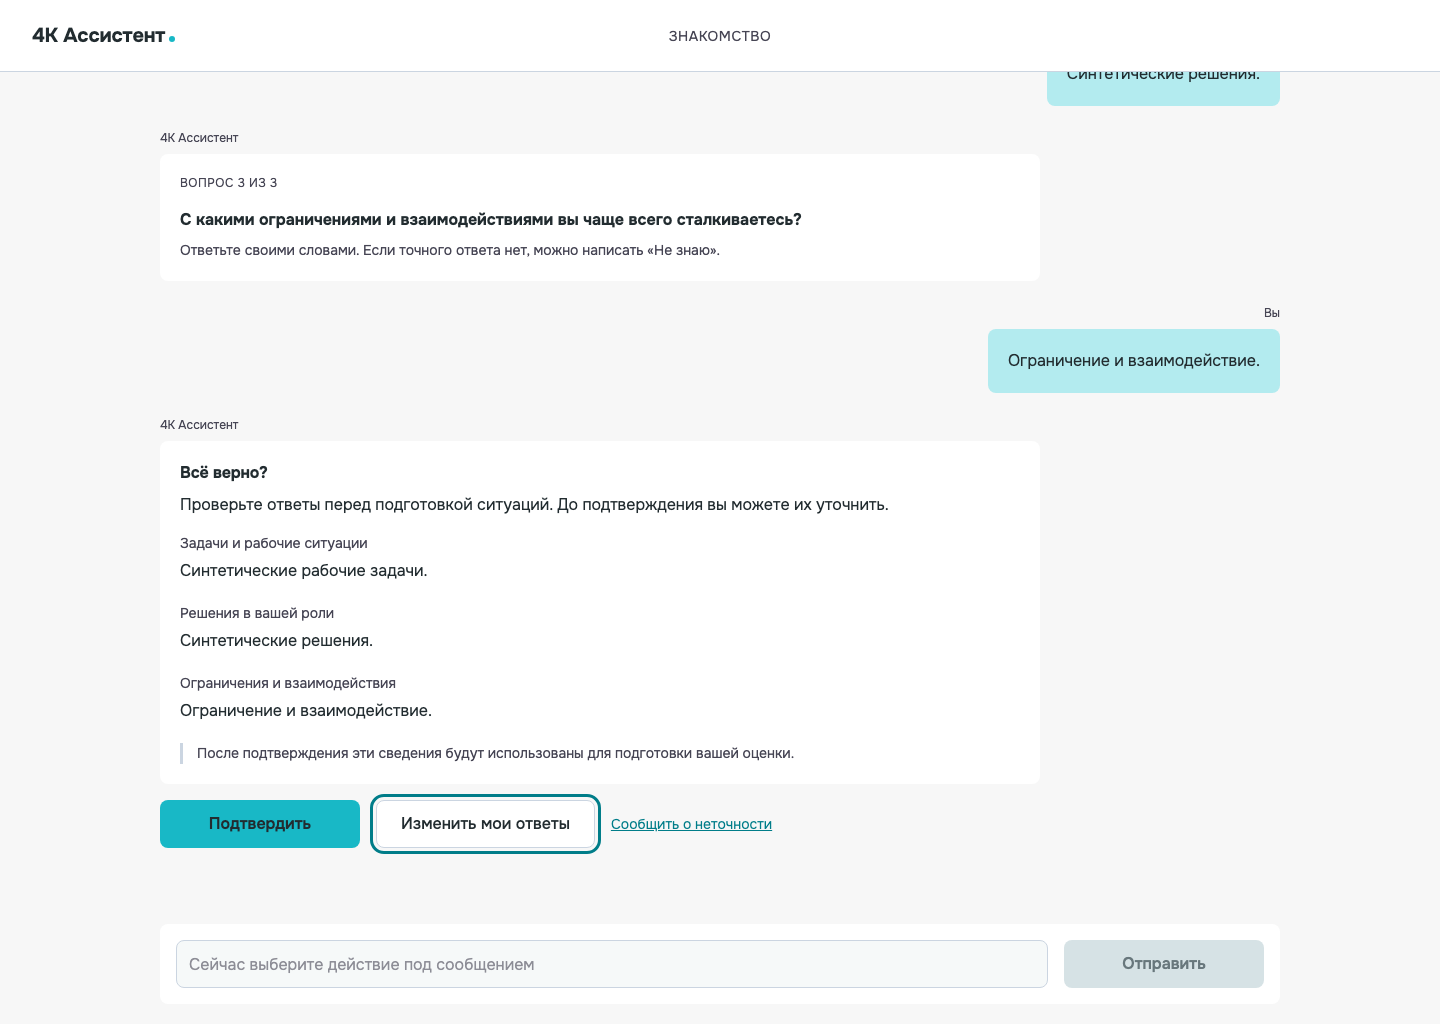
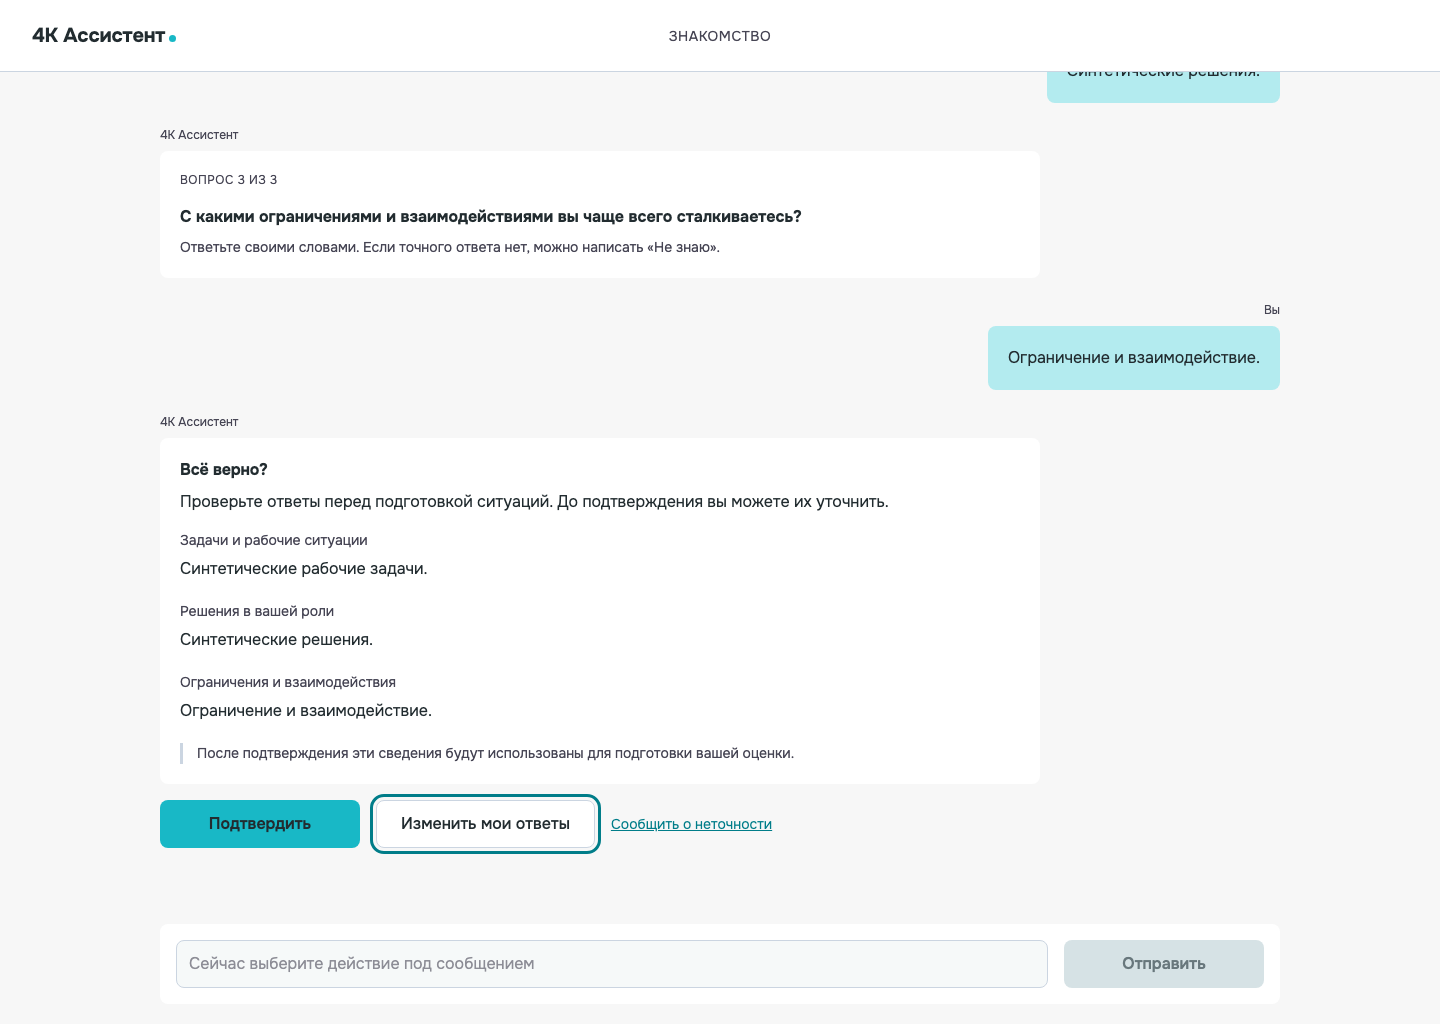
P4K-W02-01 ADD01: сверить мобильный ввод и подписи с HTML W02 v5

diff --git a/web/styles/screens/onboarding.css b/web/styles/screens/onboarding.css
@@ -27,7 +27,7 @@
     background: var(--w02-white); border-bottom: 1px solid var(--w02-border);
 }
 #onboarding-panel #onboarding-home { border: 0; background: transparent; color: inherit; padding: 8px 0; font: 700 20px/28px var(--font-body); min-height: 44px; text-align: left; }
-#onboarding-panel #onboarding-home::after { content: ''; display: inline-block; width: 6px; height: 6px; margin-left: 4px; border-radius: 50%; background: var(--w02-primary); }
+#onboarding-panel #onboarding-home::after { content: ''; display: inline-block; width: 7px; height: 7px; margin-left: 4px; border-radius: 50%; background: var(--w02-primary); }
 #onboarding-panel .onboarding-section-label { position: absolute; left: 50%; transform: translateX(-50%); font-size: 14px; line-height: 20px; color: var(--w02-muted); text-transform: uppercase; letter-spacing: .04em; }
 #onboarding-panel .step-badge-back { display: none; }
 #onboarding-panel .onboarding-history { flex: 1; min-height: 0; overflow-y: auto; overscroll-behavior: contain; padding: 32px 0; }
@@ -53,7 +53,7 @@
 #onboarding-panel .onboarding-data dt { font-size: 14px; color: var(--w02-muted); margin-bottom: 5px; }
 #onboarding-panel .onboarding-data dd { margin: 0; }
 #onboarding-panel .onboarding-consent { margin-top: 16px; padding-top: 16px; border-top: 1px solid var(--w02-border); font-size: 14px; line-height: 21px; }
-#onboarding-panel textarea { display: block; box-sizing: border-box; width: 100%; min-height: 48px; margin: 0; border: 1px solid var(--w02-border); border-radius: 8px; background: var(--w02-white); padding: 12px; font: 400 16px/24px var(--font-body); color: inherit; }
+#onboarding-panel textarea { display: block; box-sizing: border-box; width: 100%; min-height: 48px; margin: 0; border: 1px solid var(--w02-border); border-radius: 8px; background: var(--w02-white); padding: 11px 12px; font: 400 16px/24px var(--font-body); color: inherit; }
 #onboarding-panel textarea::placeholder { color: rgb(70 69 84 / 60%); opacity: 1; }
 #onboarding-panel textarea:disabled { background: var(--w02-secondary); color: var(--w02-disabled-text); }
 #onboarding-panel .onboarding-answer { max-height: 120px; resize: none; }
@@ -64,7 +64,7 @@
 #onboarding-panel .primary-button:active:not(:disabled) { background: var(--w02-active); }
 #onboarding-panel .ghost-button { background: var(--w02-white); border: 1px solid var(--w02-border); color: inherit; padding-block: 11px; font-weight: 500; }
 #onboarding-panel .ghost-button:hover:not(:disabled) { background: var(--w02-list-hover); }
-#onboarding-panel .onboarding-text-action { align-self: center; min-height: 48px; padding: 12px 0; border: 0; background: transparent; color: var(--w02-focus); font: 400 14px/20px var(--font-body); text-decoration: underline; cursor: pointer; }
+#onboarding-panel .onboarding-text-action { align-self: center; min-height: 44px; padding: 10px 0; border: 0; background: transparent; color: var(--w02-focus); font: 400 14px/20px var(--font-body); text-decoration: underline; cursor: pointer; }
 #onboarding-panel button:disabled { background: var(--w02-disabled); color: var(--w02-disabled-text); cursor: default; opacity: 1; }
 #onboarding-panel .onboarding-text-action:disabled { background: transparent; }
 #onboarding-panel #onboarding-home:disabled { background: transparent; }
@@ -75,7 +75,7 @@
 #onboarding-panel .onboarding-notice { margin: 12px 0 0; color: var(--w02-muted); font-size: 14px; line-height: 21px; }
 #onboarding-panel .onboarding-warning { padding: 16px; background: var(--w02-secondary); border: 1px solid var(--w02-border); border-radius: 8px; }
 #onboarding-panel .onboarding-summary-item { margin-bottom: 20px; }
-#onboarding-panel .onboarding-summary-label { display: block; margin-bottom: 6px; font: 400 14px/20px var(--font-body); color: var(--w02-muted); }
+#onboarding-panel .onboarding-summary-label { display: block; margin-bottom: 6px; font: 400 14px/21px var(--font-body); color: var(--w02-muted); }
 #onboarding-panel .onboarding-summary-answer { white-space: pre-wrap; font: 400 16px/24px var(--font-body); color: var(--w02-text); }
 #onboarding-panel .onboarding-bubble .onboarding-summary-note { margin: 20px 0 0; border-left: 3px solid var(--w02-border); padding-left: 14px; font: 400 14px/21px var(--font-body); color: var(--w02-muted); }
 #onboarding-panel .onboarding-knowledge { display: grid; grid-template-columns: 1fr 1fr; gap: 12px; margin-bottom: 20px; }
@@ -105,17 +105,19 @@
 @media (max-width: 600px) {
     #onboarding-panel .onboarding-topbar { flex-basis: 64px; padding-inline: 16px; gap: 8px; }
     #onboarding-panel #onboarding-home { font-size: 18px; line-height: 24px; white-space: nowrap; }
-    #onboarding-panel .onboarding-section-label { position: static; transform: none; margin-left: auto; font-size: 11px; text-align: right; }
+    #onboarding-panel #onboarding-home::after { width: 5px; height: 5px; }
+    #onboarding-panel .onboarding-section-label { position: static; transform: none; margin-left: auto; font-size: 12px; line-height: 16px; text-align: right; }
     #onboarding-panel .onboarding-thread, #onboarding-panel .onboarding-composer-inner { width: calc(100% - 32px); }
     #onboarding-panel .onboarding-message--assistant { width: 100%; }
     #onboarding-panel .onboarding-message--user { max-width: 90%; }
     #onboarding-panel .onboarding-bubble { padding: 18px 16px; }
     #onboarding-panel .onboarding-data { grid-template-columns: 1fr; gap: 16px; }
-    #onboarding-panel .onboarding-actions { flex-direction: column; gap: 10px; }
+    #onboarding-panel .onboarding-actions { flex-direction: column; gap: 12px; }
+    #onboarding-panel .onboarding-text-action { align-self: stretch; }
     #onboarding-panel .onboarding-actions .primary-button, #onboarding-panel .onboarding-actions .ghost-button { min-width: 0; width: 100%; padding-inline: 16px; }
     #onboarding-panel .onboarding-history { padding-block: 24px 16px; }
     #onboarding-panel .onboarding-composer { padding-top: 12px; padding-bottom: max(12px, env(safe-area-inset-bottom)); }
-    #onboarding-panel .onboarding-composer-inner { flex-direction: column; align-items: stretch; }
+    #onboarding-panel .onboarding-composer-inner { flex-direction: column; align-items: stretch; padding: 12px; gap: 12px; }
     #onboarding-panel .onboarding-composer-inner .onboarding-answer, #onboarding-panel .onboarding-send, #onboarding-panel .onboarding-send-placeholder { flex: none; min-width: 0; width: 100%; }
     #onboarding-panel #onboarding-dialog { padding: 20px; }
 }

diff --git a/docs/evc/tasks/p4k-w02-01/CHECKS.md b/docs/evc/tasks/p4k-w02-01/CHECKS.md
@@ -107,3 +107,34 @@ ADD01 новый source/candidate/tested SHA: `2c620afe506d28e69cd59087c74c27169
 Runtime bytes соответствуют evidence/add01/checked-content.json; следующий
 handoff commit меняет только STATE/CHECKS. Обязательный CI проверяет точный
 финальный PR head; итоговые SHA/links/status в RELEASE_STATUS.json после CI.
+
+
+### Уточнение после доступа к HTML W02 v5
+
+Владелец прямо разрешил повторный вход в ChatGPT и затем Google sign-in.
+IAB открыл эталон; прежний пробел доступа закрыт. Sitesread подтверждаетversion5,
+DOM/computed styles сводки просмотрены адресно1440/390 (не новая матрица).
+Первичное чтение — evidence/add01/reference-dom-styles.json. Встроенные шрифты,
+секреты и учётные данные не копировались. СкачиваниеHTML превысилоtimeout;
+дальше использован уже доступный DOM, повтор скачивания не выполнялся.
+Дельта относительно43d16e2:mobilecomposer padding/gap12, label14/21,
+textarea padding11/12, textaction44px/padding10, dot7desktop/5mobile,
+mobile section12/16/actionsgap12. Это уточнение тех же8пунктов, без API/JSfix.
+Кнопки48px сохранены по явному текстовому REFERENCE; HTML secondary50px включает
+border, его механическое копирование нарушило бы явную высоту48px.
+Перед controlledrun `w02-add01-html-final` — своих PID/containers/DB нет;
+исходные foreignlisteners прежние. Тот же finiteprofile600s/90s/1worker/0retries,
+noLLM/noletters и прежний runner/commands; W02only1440px +REMAIN05.
+Перед адреснымPATH29 — новыйcluster `.test-stand/w02-pg-add01-html`,
+PG55493/backend18859, рольstand_owner, синтетическая product4k_pytest DB.
+Старт python3 /tmp/p4k-w02-add01-html-path.py; status/stop с новымclusterpath
+штатные, ownedgroups иPID до использования фиксируются в evidence/add01/path-run.json.
+Повтор обусловлен полученным новым исходным HTML и конкретной CSSдельтой.
+Текущий CI43d16e2 относится к прежнемуCSS; послеpush новыйhead проходит весьCI.
+
+Уточнение поHTML проверено: W02+REMAIN05 4PASS/4.6s, ownGroupabsent=true;
+PATH29 actualHTTP/ownedPG 1PASS/20.6s, PG55493/backend18859free/pg_stopped=true.
+Один контрольный summaryPNG обновлён; frontend324/lint/build переиспользованы
+по неизменнымJS/bundleхешам, CSS проверен снимком/computedstyles/PATH29.
+Все8пунктов ADD01 закрыты технически, доступHTML теперьPASS, humanreviewPENDING.
+CI43d16e2 завершился9PASS; он исторический, после CSSуточнений нуженCI новогоhead.

diff --git a/docs/evc/tasks/p4k-w02-01/STATE.md b/docs/evc/tasks/p4k-w02-01/STATE.md
@@ -168,3 +168,34 @@ ADD01 новый source/candidate/tested SHA: `2c620afe506d28e69cd59087c74c27169
 Runtime bytes соответствуют evidence/add01/checked-content.json; следующий
 handoff commit меняет только STATE/CHECKS. Обязательный CI проверяет точный
 финальный PR head; итоговые SHA/links/status в RELEASE_STATUS.json после CI.
+
+
+### Уточнение после доступа к HTML W02 v5
+
+Владелец прямо разрешил повторный вход в ChatGPT и затем Google sign-in.
+IAB открыл эталон; прежний пробел доступа закрыт. Sitesread подтверждаетversion5,
+DOM/computed styles сводки просмотрены адресно1440/390 (не новая матрица).
+Первичное чтение — evidence/add01/reference-dom-styles.json. Встроенные шрифты,
+секреты и учётные данные не копировались. СкачиваниеHTML превысилоtimeout;
+дальше использован уже доступный DOM, повтор скачивания не выполнялся.
+Дельта относительно43d16e2:mobilecomposer padding/gap12, label14/21,
+textarea padding11/12, textaction44px/padding10, dot7desktop/5mobile,
+mobile section12/16/actionsgap12. Это уточнение тех же8пунктов, без API/JSfix.
+Кнопки48px сохранены по явному текстовому REFERENCE; HTML secondary50px включает
+border, его механическое копирование нарушило бы явную высоту48px.
+Перед controlledrun `w02-add01-html-final` — своих PID/containers/DB нет;
+исходные foreignlisteners прежние. Тот же finiteprofile600s/90s/1worker/0retries,
+noLLM/noletters и прежний runner/commands; W02only1440px +REMAIN05.
+Перед адреснымPATH29 — новыйcluster `.test-stand/w02-pg-add01-html`,
+PG55493/backend18859, рольstand_owner, синтетическая product4k_pytest DB.
+Старт python3 /tmp/p4k-w02-add01-html-path.py; status/stop с новымclusterpath
+штатные, ownedgroups иPID до использования фиксируются в evidence/add01/path-run.json.
+Повтор обусловлен полученным новым исходным HTML и конкретной CSSдельтой.
+Текущий CI43d16e2 относится к прежнемуCSS; послеpush новыйhead проходит весьCI.
+
+Уточнение поHTML проверено: W02+REMAIN05 4PASS/4.6s, ownGroupabsent=true;
+PATH29 actualHTTP/ownedPG 1PASS/20.6s, PG55493/backend18859free/pg_stopped=true.
+Один контрольный summaryPNG обновлён; frontend324/lint/build переиспользованы
+по неизменнымJS/bundleхешам, CSS проверен снимком/computedstyles/PATH29.
+Все8пунктов ADD01 закрыты технически, доступHTML теперьPASS, humanreviewPENDING.
+CI43d16e2 завершился9PASS; он исторический, после CSSуточнений нуженCI новогоhead.

diff --git a/docs/evc/tasks/p4k-w02-01/TASK.md b/docs/evc/tasks/p4k-w02-01/TASK.md
@@ -89,3 +89,27 @@ PATH29 имеет новые ожидания composer/отсутствия ст
 Приёмка: по принятому дополнению ручная проверка длинного ответа, формы и телефона
 отложена до main/TEST; человеческое review и самостоятельный допуск merge сохраняются.
 Откат — revert собственных ADD01-коммитов/PR штатным процессом.
+
+
+### Уточнение после доступа к HTML W02 v5
+
+Владелец прямо разрешил повторный вход в ChatGPT и затем Google sign-in.
+IAB открыл эталон; прежний пробел доступа закрыт. Sitesread подтверждаетversion5,
+DOM/computed styles сводки просмотрены адресно1440/390 (не новая матрица).
+Первичное чтение — evidence/add01/reference-dom-styles.json. Встроенные шрифты,
+секреты и учётные данные не копировались. СкачиваниеHTML превысилоtimeout;
+дальше использован уже доступный DOM, повтор скачивания не выполнялся.
+Дельта относительно43d16e2:mobilecomposer padding/gap12, label14/21,
+textarea padding11/12, textaction44px/padding10, dot7desktop/5mobile,
+mobile section12/16/actionsgap12. Это уточнение тех же8пунктов, без API/JSfix.
+Кнопки48px сохранены по явному текстовому REFERENCE; HTML secondary50px включает
+border, его механическое копирование нарушило бы явную высоту48px.
+Перед controlledrun `w02-add01-html-final` — своих PID/containers/DB нет;
+исходные foreignlisteners прежние. Тот же finiteprofile600s/90s/1worker/0retries,
+noLLM/noletters и прежний runner/commands; W02only1440px +REMAIN05.
+Перед адреснымPATH29 — новыйcluster `.test-stand/w02-pg-add01-html`,
+PG55493/backend18859, рольstand_owner, синтетическая product4k_pytest DB.
+Старт python3 /tmp/p4k-w02-add01-html-path.py; status/stop с новымclusterpath
+штатные, ownedgroups иPID до использования фиксируются в evidence/add01/path-run.json.
+Повтор обусловлен полученным новым исходным HTML и конкретной CSSдельтой.
+Текущий CI43d16e2 относится к прежнемуCSS; послеpush новыйhead проходит весьCI.
